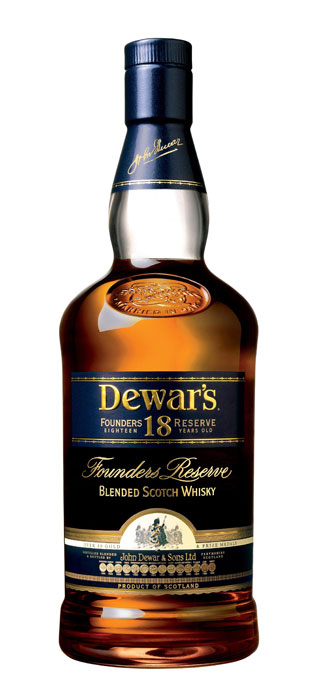
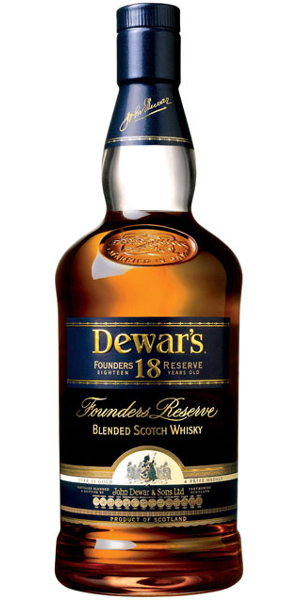
resized pics, displayed pics on liquors index

diff --git a/app/assets/stylesheets/application.css b/app/assets/stylesheets/application.css
@@ -52,7 +52,9 @@
     margin-left: -800px;   
   }
 }
-  
+.thumby-text {
+  color: gray !important; 
+}
 .logged-header {
   color: #E6E4E4;
 }

diff --git a/app/controllers/liquors_controller.rb b/app/controllers/liquors_controller.rb
@@ -1,5 +1,6 @@
 class LiquorsController < ApplicationController
 	before_action :authenticate_user!
+	
 	def index
 		@liquors = Ingredient.liquors
 	end
